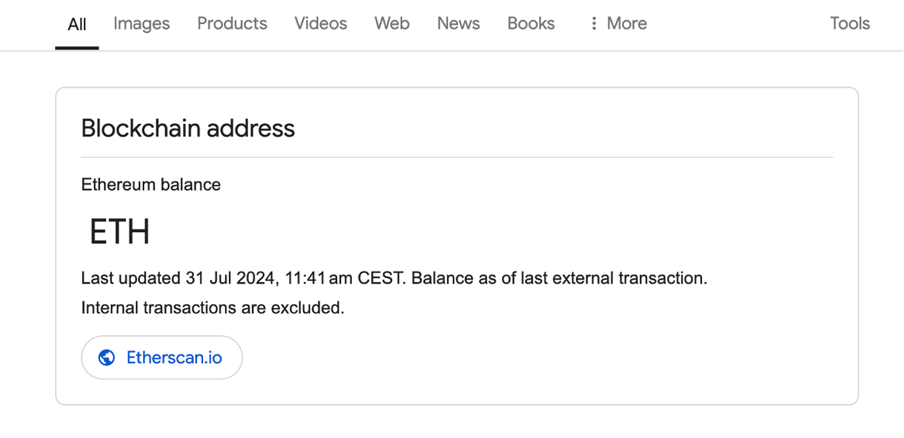
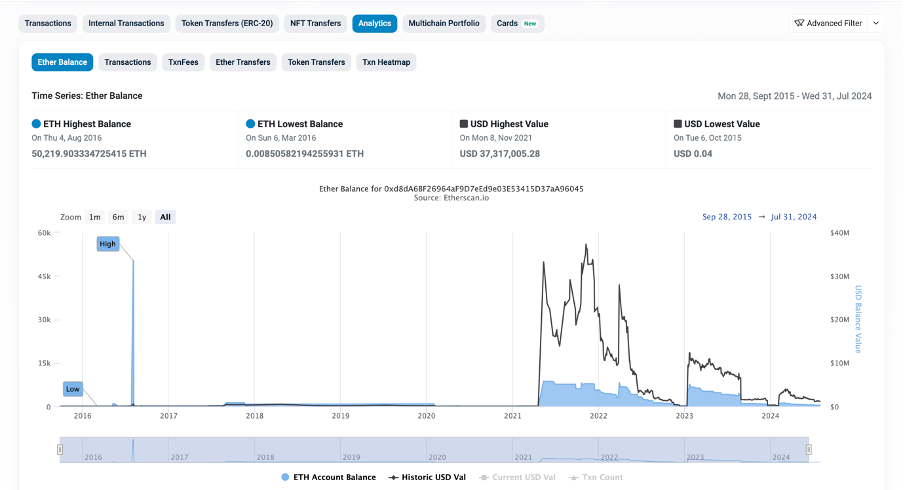
GitBook: Update content

diff --git a/gitbook/tools/etherscan/README.md b/gitbook/tools/etherscan/README.md
@@ -19,7 +19,7 @@ Ethereum is a blockchain-based network. Its native cryptocurrency Ether (ETH) is
 
 By typing any Ether address in the search bar, researchers get an overview of the current balance of the wallet’s assets in Ether and USD, the dates when the first and the last transactions were sent and an overview of all transactions.
 
-<figure><img src="../../.gitbook/assets/Screenshot 2024-08-01 at 14.24.47.png" alt=""><figcaption><p>The <a href="https://etherscan.io/address/0xd8da6bf26964af9d7eed9e03e53415d37aa96045">Ethereum address</a> of Ethereum co-founder Vitalik Buterin according to <a href="https://www.forbes.com/sites/ninabambysheva/2021/05/12/vitalik-buterin-moves-13-billion-worth-of-ether-but-where/">Forbes</a>.</p></figcaption></figure>
+<figure><img src=".gitbook/assets/Screenshot 2024-08-01 at 14.24.47 (1).png" alt=""><figcaption><p>The <a href="https://etherscan.io/address/0xd8da6bf26964af9d7eed9e03e53415d37aa96045">Ethereum address</a> of Ethereum co-founder Vitalik Buterin according to <a href="https://www.forbes.com/sites/ninabambysheva/2021/05/12/vitalik-buterin-moves-13-billion-worth-of-ether-but-where/">Forbes</a>.</p></figcaption></figure>
 
 #### **Ethereum usernames**
 
@@ -27,17 +27,17 @@ Since Ether addresses are long and not very user-friendly, services like [Ethere
 
 Some Ethereum fans use their .eth username on social media platforms which can be helpful in terms of tracing digital footprints during open source investigations. Ethereum co-founder Vitalik Buterin, for instance, uses vitalik.eth for his [X account](https://x.com/VitalikButerin). A search for this name on Etherscan brings up the associated Ether address:
 
-<figure><img src="../../.gitbook/assets/Screenshot 2024-08-01 at 14.32.51.png" alt=""><figcaption></figcaption></figure>
+<figure><img src=".gitbook/assets/Screenshot 2024-08-01 at 14.32.51 (1).png" alt=""><figcaption></figcaption></figure>
 
 #### **Search Etherscan via Google**
 
 [Google](https://x.com/nalin/status/1656753830862942208) displays the ETH balance (via Etherscan) directly on top of the search results if someone searches for an Ether address:
 
-<figure><img src="../../.gitbook/assets/image (3) (2).png" alt=""><figcaption></figcaption></figure>
+<figure><img src=".gitbook/assets/image (3) (2).png" alt=""><figcaption></figcaption></figure>
 
 However, our own tests in July 2024 showed that this does not always work. Sometimes the result comes back with an empty info box:
 
-<figure><img src="../../.gitbook/assets/Screenshot 2024-07-31 at 20.36.23.png" alt="" width="375"><figcaption></figcaption></figure>
+<figure><img src=".gitbook/assets/Screenshot 2024-07-31 at 20.36.23 (1).png" alt="" width="375"><figcaption></figcaption></figure>
 
 It is also possible to search for a [username](https://cryptoslate.com/google-adding-ethereum-name-service-data-into-search-results-through-etherscan/) but this method currently seems to be even less reliable.
 
@@ -45,7 +45,7 @@ It is also possible to search for a [username](https://cryptoslate.com/google-ad
 
 Each transaction has its own transaction hash. Searching for this hash on Etherscan brings up an overview of transaction details:
 
-<figure><img src="../../.gitbook/assets/image (2) (12).png" alt=""><figcaption><p>This transaction was successful and took place in block number 20393430 on July 26, 2024. It was sent from an address ending with 003 to vitalik.eth.</p></figcaption></figure>
+<figure><img src=".gitbook/assets/image (2) (12).png" alt=""><figcaption><p>This transaction was successful and took place in block number 20393430 on July 26, 2024. It was sent from an address ending with 003 to vitalik.eth.</p></figcaption></figure>
 
 #### Analytics
 
@@ -53,11 +53,11 @@ Etherscan also provides various types of analytics. Open source researchers can 
 
 Each address site has an “analytics” button. Clicking on it, opens a list of options including an overview of the Ether balance of an address. The following address has had its highest Ether balance in August 2016 but it had its highest value in USD in November 2021:
 
-<figure><img src="../../.gitbook/assets/image (5).png" alt=""><figcaption></figcaption></figure>
+<figure><img src=".gitbook/assets/image (5).png" alt=""><figcaption></figcaption></figure>
 
 The “transactions” tab shows a time series of transactions over time (the exact time frame can be chosen by adapting the date on the right hand side or by moving the slider).
 
-<figure><img src="../../.gitbook/assets/Screenshot 2024-08-01 at 16.45.55.png" alt=""><figcaption><p>An overview of vitalik.eth’s transactions between January 2020 and July 2024. Outgoing and incoming addresses have different colours (black and green).</p></figcaption></figure>
+<figure><img src=".gitbook/assets/Screenshot 2024-08-01 at 16.45.55 (1).png" alt=""><figcaption><p>An overview of vitalik.eth’s transactions between January 2020 and July 2024. Outgoing and incoming addresses have different colours (black and green).</p></figcaption></figure>
 
 ## Cost
 
@@ -77,7 +77,7 @@ No requirements.
 
 Open source researchers who sign up with an e-mail address can use some additional features like creating a watchlist of addresses and receiving e-mail notifications if transactions from or to those addresses occur.
 
-<figure><img src="../../.gitbook/assets/image (1) (2).png" alt=""><figcaption><p>Registered users can set up watch lists for up to 50 addresses.</p></figcaption></figure>
+<figure><img src=".gitbook/assets/image (1) (2).png" alt=""><figcaption><p>Registered users can set up watch lists for up to 50 addresses.</p></figcaption></figure>
 
 ## Limitations
 